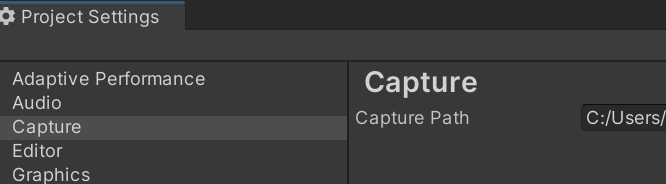
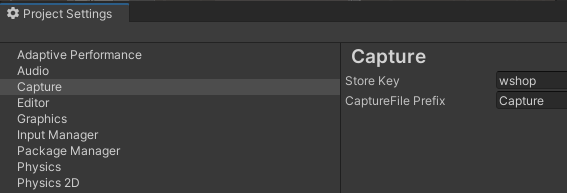
update game capture

diff --git a/Runtime/Scripts/CaptureSettings.cs b/Runtime/Scripts/CaptureSettings.cs
@@ -1,3 +1,4 @@
+using System;
 using System.Collections.Generic;
 using System.IO;
 using System.Linq;
@@ -8,67 +9,107 @@ using UnityEngine.UIElements;
 // https://docs.unity.cn/cn/2019.4/ScriptReference/SettingsProvider.html
 namespace QuickDemo
 {
-    public class CaptureSettings : ScriptableObject
+    [FilePath("ProjectSettings/CaptureSettings.asset", FilePathAttribute.Location.ProjectFolder)]
+    public class CaptureSettings : ScriptableSingleton<CaptureSettings>
     {
-        public const string k_CaptureSettingsPath = "Assets/Editor/CaptureSettings.asset";
+        [SerializeField]
+        private string _storeKey = "";
+        [SerializeField]
+        private string _captureFilePrefix = "Capture";
 
-        public string capturePath;
-
-        public static CaptureSettings GetOrCreateSettings()
+        public string capturePath
         {
-            string path = Application.dataPath + "/Editor";
-            if (!Directory.Exists(path))
-                Directory.CreateDirectory(path);
-
-            var settings = AssetDatabase.LoadAssetAtPath<CaptureSettings>(k_CaptureSettingsPath);
-            if (settings == null)
+            get 
             {
-                settings = ScriptableObject.CreateInstance<CaptureSettings>();
-                settings.capturePath = System.IO.Path.GetFullPath(Application.dataPath + "/../Captures/");
-                AssetDatabase.CreateAsset(settings, k_CaptureSettingsPath);
-                AssetDatabase.SaveAssets();
+                return System.IO.Path.GetFullPath(Application.dataPath + "/../Captures/");
             }
-            return settings;
         }
 
-        public static SerializedObject GetSerializedSettings()
+        public string storeKey
         {
-            return new SerializedObject(GetOrCreateSettings());
+            get
+            {
+                if (string.IsNullOrEmpty(_storeKey))
+                    _storeKey = Application.productName;
+                return _storeKey;
+            }
+        }
+
+        public string captureFilePrefix
+        {
+            get { return _captureFilePrefix; }
+        }
+
+        void OnDisable()
+        {
+            Save();
+        }
+
+        public void Save()
+        {
+            Save(true);
+        }
+
+        internal SerializedObject GetSerializedSettings()
+        {
+            return new SerializedObject(this);
         }
     }
 
-    // Register a SettingsProvider using IMGUI for the drawing framework:
-    public static class CaptureSettingsIMGUIRegister
+    class CaptureProjectSettingsProvider : SettingsProvider
     {
-        [SettingsProvider]
-        public static SettingsProvider CreateCaptureSettingsProvider()
+        SerializedObject m_SerializedObject;
+        SerializedProperty m_StoreKey;
+        SerializedProperty m_CaptureFilePrefix;
+
+        private class Styles
         {
-            // First parameter is the path in the Settings window.
-            // Second parameter is the scope of this setting: it only appears in the Project Settings window.
-            var provider = new SettingsProvider("Project/CaptureSettings", SettingsScope.Project)
+            public static readonly GUIContent StoreKeyLabel = EditorGUIUtility.TrTextContent("Store Key");
+            public static readonly GUIContent CaptureFilePrefixLabel = EditorGUIUtility.TrTextContent("CaptureFile Prefix");
+        }
+
+        public CaptureProjectSettingsProvider(string path, SettingsScope scopes, IEnumerable<string> keywords = null)
+            : base(path, scopes, keywords) {}
+
+        public override void OnActivate(string searchContext, VisualElement rootElement)
+        {
+            CaptureSettings.instance.Save();
+            m_SerializedObject = CaptureSettings.instance.GetSerializedSettings();
+            m_StoreKey = m_SerializedObject.FindProperty("_storeKey");
+            m_CaptureFilePrefix = m_SerializedObject.FindProperty("_captureFilePrefix");
+        }
+
+        public override void OnGUI(string searchContext)
+        {
+            m_SerializedObject.Update();
+            EditorGUI.BeginChangeCheck();
+
+            // EditorGUILayout.BeginHorizontal();
+            // {
+            //     m_CapturePath.stringValue = EditorGUILayout.TextField(Styles.CapturePathLabel, m_CapturePath.stringValue);
+            //     if (GUILayout.Button("Brower", GUILayout.Width(70)))
+            //     {
+            //         var fullpath = EditorUtility.OpenFolderPanel("Choose Capture Save Folder", CaptureSettings.instance.fullPath, "Captures");
+            //         m_CapturePath.stringValue = System.IO.Path.GetRelativePath();
+            //     }
+            // }
+            // EditorGUILayout.EndHorizontal();
+
+            var captureSettings = CaptureSettings.instance;
+            m_StoreKey.stringValue = EditorGUILayout.TextField(Styles.StoreKeyLabel, captureSettings.storeKey);
+            m_CaptureFilePrefix.stringValue = EditorGUILayout.TextField(Styles.CaptureFilePrefixLabel, captureSettings.captureFilePrefix);
+
+            if (EditorGUI.EndChangeCheck())
             {
-                // By default the last token of the path is used as display name if no label is provided.
-                label = "Capture",
-                // Create the SettingsProvider and initialize its drawing (IMGUI) function in place:
-                guiHandler = (searchContext) =>
-                {
-                    var settings = CaptureSettings.GetSerializedSettings();
-                    EditorGUILayout.BeginHorizontal();
-                    {
-                        EditorGUILayout.PropertyField(settings.FindProperty("capturePath"), new GUIContent("Capture Path"));
-                        if (GUILayout.Button("Brower", GUILayout.Width(70)))
-                        {
-                            settings.FindProperty("capturePath").stringValue = EditorUtility.OpenFolderPanel("Choose Capture Save Folder", settings.FindProperty("capturePath").stringValue, "Captures");
-                        }
-                    }
-                    EditorGUILayout.EndHorizontal();
-                    settings.ApplyModifiedProperties();
-                },
+                m_SerializedObject.ApplyModifiedProperties();
+                CaptureSettings.instance.Save();
+            }
+        }
 
-                // Populate the search keywords to enable smart search filtering and label highlighting:
-                keywords = new HashSet<string>(new[] { "Capture" })
-            };
-
+        [SettingsProvider]
+        public static SettingsProvider CreateCaptureProjectSettingProvider()
+        {
+            var provider = new CaptureProjectSettingsProvider("Project/Capture", SettingsScope.Project, GetSearchKeywordsFromGUIContentProperties<Styles>());
             return provider;
         }
     }

diff --git a/Runtime/Scripts/GameCapture.cs b/Runtime/Scripts/GameCapture.cs
@@ -13,7 +13,6 @@ namespace QuickDemo
     #if UNITY_EDITOR
         private const string PREFKEY_AUTOCAPTURE_LASTTIME = "AutoCaptureLastTime";
 
-        public string storeKey = "PORJECT_NAME";
         public bool autoCapture = true;
         public int autoCaptreInterval = 24 * 3600;
         public bool logCapture = false;
@@ -24,12 +23,12 @@ namespace QuickDemo
 
         public static void StartCapture(bool log)
         {
-            var captureSettings = CaptureSettings.GetOrCreateSettings();
+            var captureSettings = CaptureSettings.instance;
             if (Directory.Exists(captureSettings.capturePath) == false)
                 Directory.CreateDirectory(captureSettings.capturePath);
 
             DateTime dt = DateTime.Now;
-            string filename = $"{captureSettings.capturePath}/Capture_{dt.Year}-{dt.Month}-{dt.Day}_{dt.Hour}-{dt.Minute}-{dt.Second}.png";
+            string filename = $"{captureSettings.capturePath}/{captureSettings.captureFilePrefix}_{dt.Year}-{dt.Month}-{dt.Day}_{dt.Hour}-{dt.Minute}-{dt.Second}.png";
             ScreenCapture.CaptureScreenshot(filename);
             if (log)
             {
@@ -41,7 +40,8 @@ namespace QuickDemo
         {
             DontDestroyOnLoad(gameObject);
 
-            atuoCaptureStoreKey = storeKey + PREFKEY_AUTOCAPTURE_LASTTIME;
+            var captureSettings = CaptureSettings.instance;
+            atuoCaptureStoreKey = captureSettings.storeKey + PREFKEY_AUTOCAPTURE_LASTTIME;
             int ts = EditorPrefs.GetInt(atuoCaptureStoreKey, 0);
             Debug.Log($"[CAPTURE]last auto capture timestamp > {ts}");
             autoCaptureCD = autoCaptreInterval - (((int)Utils.GetTimeStamp()) - ts);
